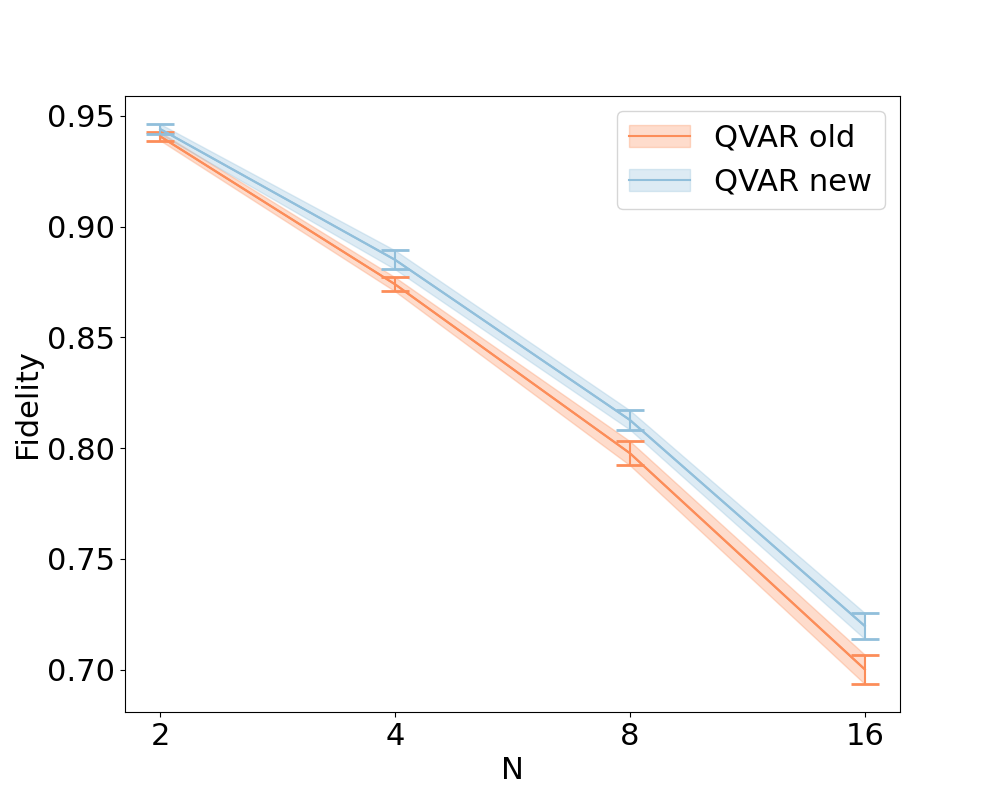
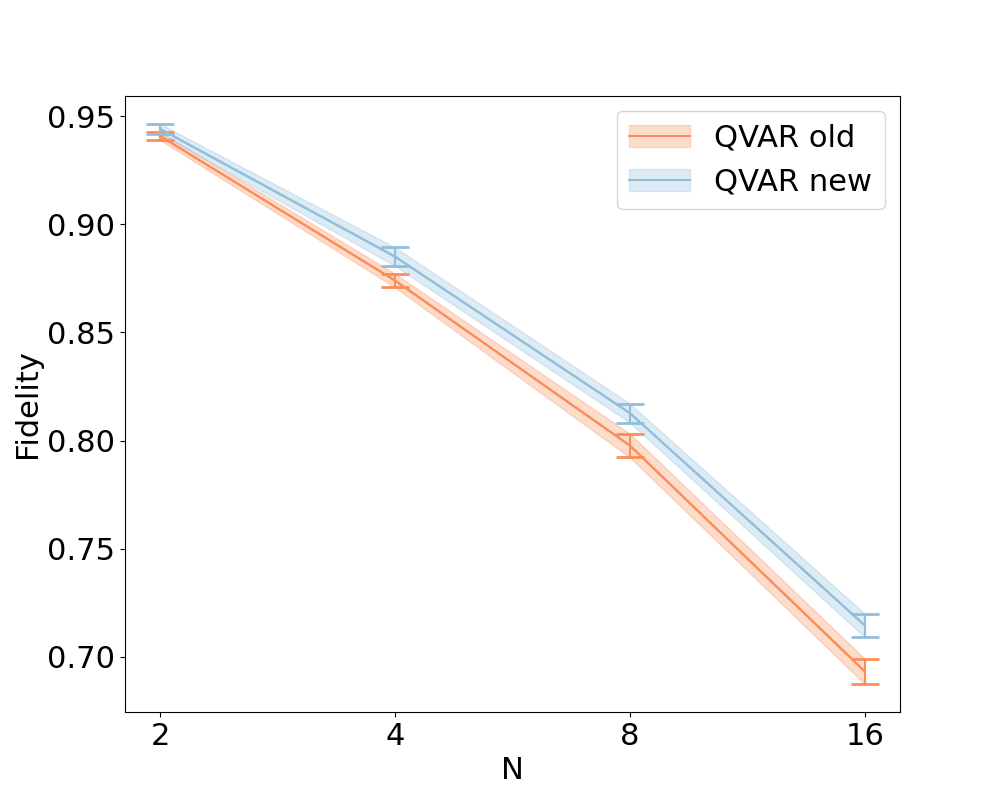
updated

diff --git a/test.py b/test.py
@@ -301,5 +301,5 @@ if __name__ == "__main__":
     test_ffqram(8)
     '''
     #test_noise()
-    test_noise_density_matrix()
-    #print_result()
+    #test_noise_density_matrix()
+    print_result()
